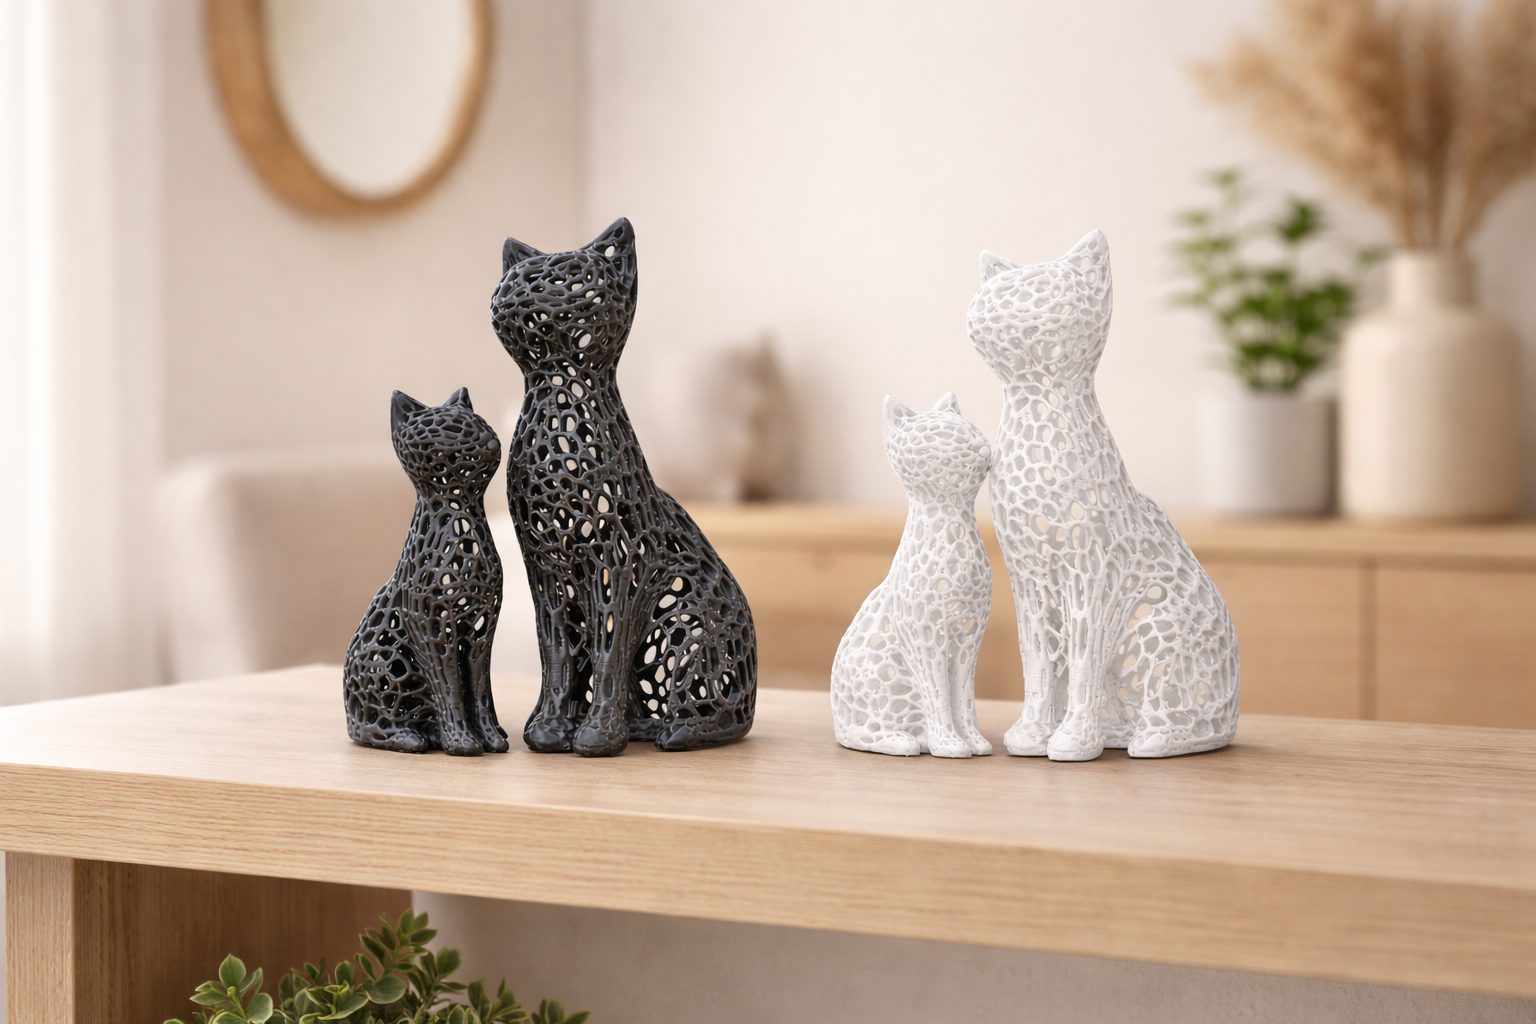
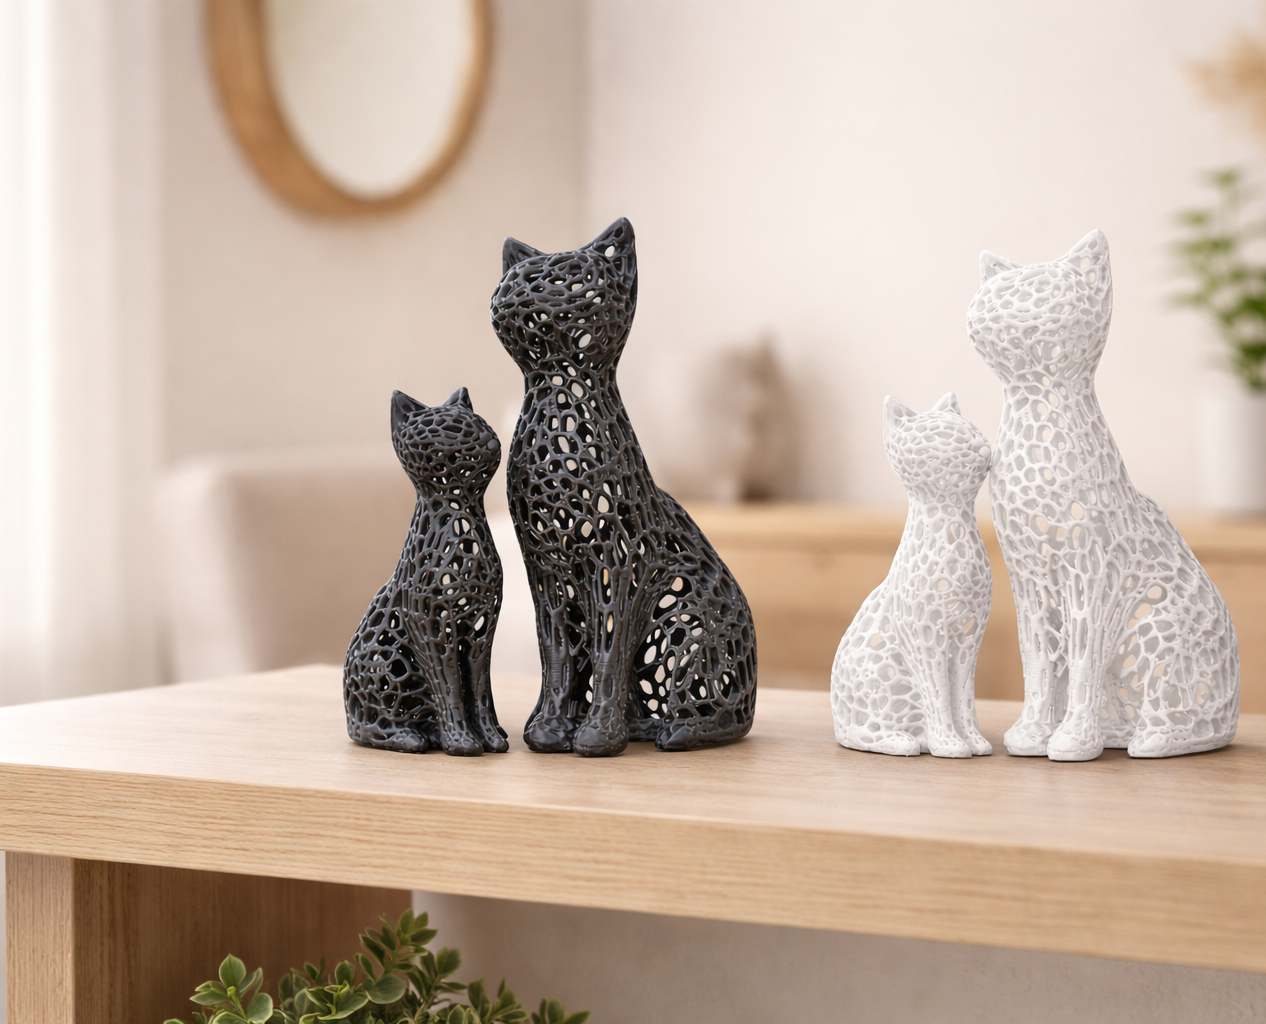
Fix scroll lock on mobile, include updated bundle image
- Add touchAction reset alongside overflow on all modal open/close
- Safety net useEffect restores scroll when no modals are open
- Updated bundle1.png image

diff --git a/src/components/shop/ShopApp.tsx b/src/components/shop/ShopApp.tsx
@@ -1237,9 +1237,9 @@ function ProductModal({ product, onClose }: { product: Product | null; onClose: 
   useEffect(() => { setModalImgIdx(0); }, [product?.id]);
 
   useEffect(() => {
-    if (product) document.body.style.overflow = 'hidden';
-    else document.body.style.overflow = '';
-    return () => { document.body.style.overflow = ''; };
+    if (product) document.body.style.overflow = 'hidden'; document.body.style.touchAction = 'none';
+    else document.body.style.overflow = ''; document.body.style.touchAction = '';
+    return () => { document.body.style.overflow = ''; document.body.style.touchAction = ''; };
   }, [product]);
 
   useEffect(() => {
@@ -1387,9 +1387,9 @@ function CartDrawer({ open, onClose, onCheckout }: { open: boolean; onClose: () 
   };
 
   useEffect(() => {
-    if (open) document.body.style.overflow = 'hidden';
-    else document.body.style.overflow = '';
-    return () => { document.body.style.overflow = ''; };
+    if (open) document.body.style.overflow = 'hidden'; document.body.style.touchAction = 'none';
+    else document.body.style.overflow = ''; document.body.style.touchAction = '';
+    return () => { document.body.style.overflow = ''; document.body.style.touchAction = ''; };
   }, [open]);
 
   return (
@@ -1536,9 +1536,9 @@ function CheckoutForm({ open, onClose }: { open: boolean; onClose: () => void })
   const [step, setStep] = useState<'form' | 'review'>('form');
 
   useEffect(() => {
-    if (open) { document.body.style.overflow = 'hidden'; setStep('form'); }
-    else document.body.style.overflow = '';
-    return () => { document.body.style.overflow = ''; };
+    if (open) { document.body.style.overflow = 'hidden'; document.body.style.touchAction = 'none'; setStep('form'); }
+    else document.body.style.overflow = ''; document.body.style.touchAction = '';
+    return () => { document.body.style.overflow = ''; document.body.style.touchAction = ''; };
   }, [open]);
 
   const update = (field: keyof CustomerDetails, value: string) => setCustomer((prev) => ({ ...prev, [field]: value }));
@@ -1898,6 +1898,13 @@ function ShopContent() {
     sort: 'default',
     badges: [],
   });
+
+  // Safety net: ensure scroll is always restored when no modals are open
+  useEffect(() => {
+    if (!cartOpen && !checkoutOpen && !modalProduct && !showOrderSuccess) {
+      document.body.style.overflow = ''; document.body.style.touchAction = '';
+    }
+  }, [cartOpen, checkoutOpen, modalProduct, showOrderSuccess]);
 
   // Post-checkout URL parameter handling
   useEffect(() => {